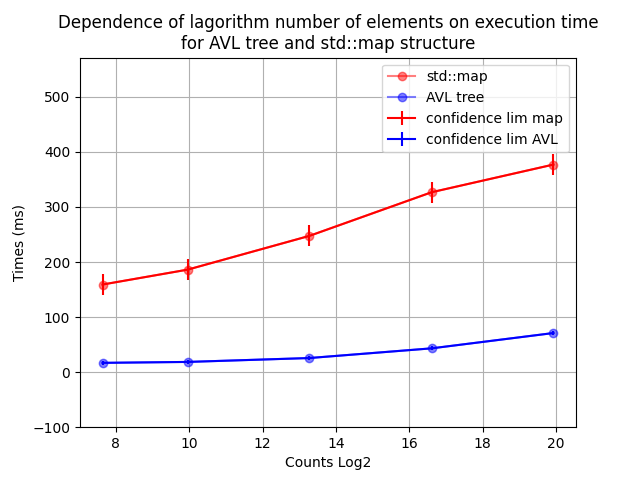
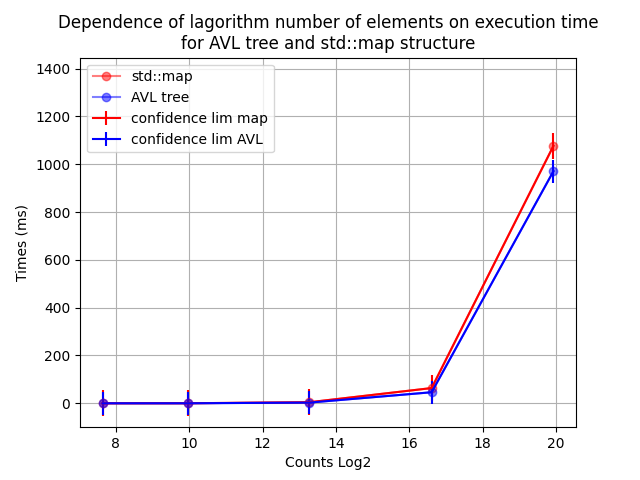
recalc graph

diff --git a/graph.py b/graph.py
@@ -6,9 +6,9 @@ import matplotlib
 
 df = pd.read_excel('benchmark.xlsx', 'Лист1', index_col=None, na_values=['NA'])
 
-x = df['test Find'][1:6]
-y1 = df['Time (ms)'][1:6]
-y2 = df['Unnamed: 3'][1:6]
+x = df['test Find'][17:22]
+y1 = df['Time (ms)'][17:22]
+y2 = df['Unnamed: 3'][17:22]
 
 y1_max = max(y1)
 y2_max = max(y2)
@@ -36,5 +36,5 @@ plt.xlabel("Counts Log2")
 plt.ylabel("Times (ms)")
 plt.legend()
 
-plt.savefig('testFind.png')
+plt.savefig('testRemove.png')
 plt.show()
